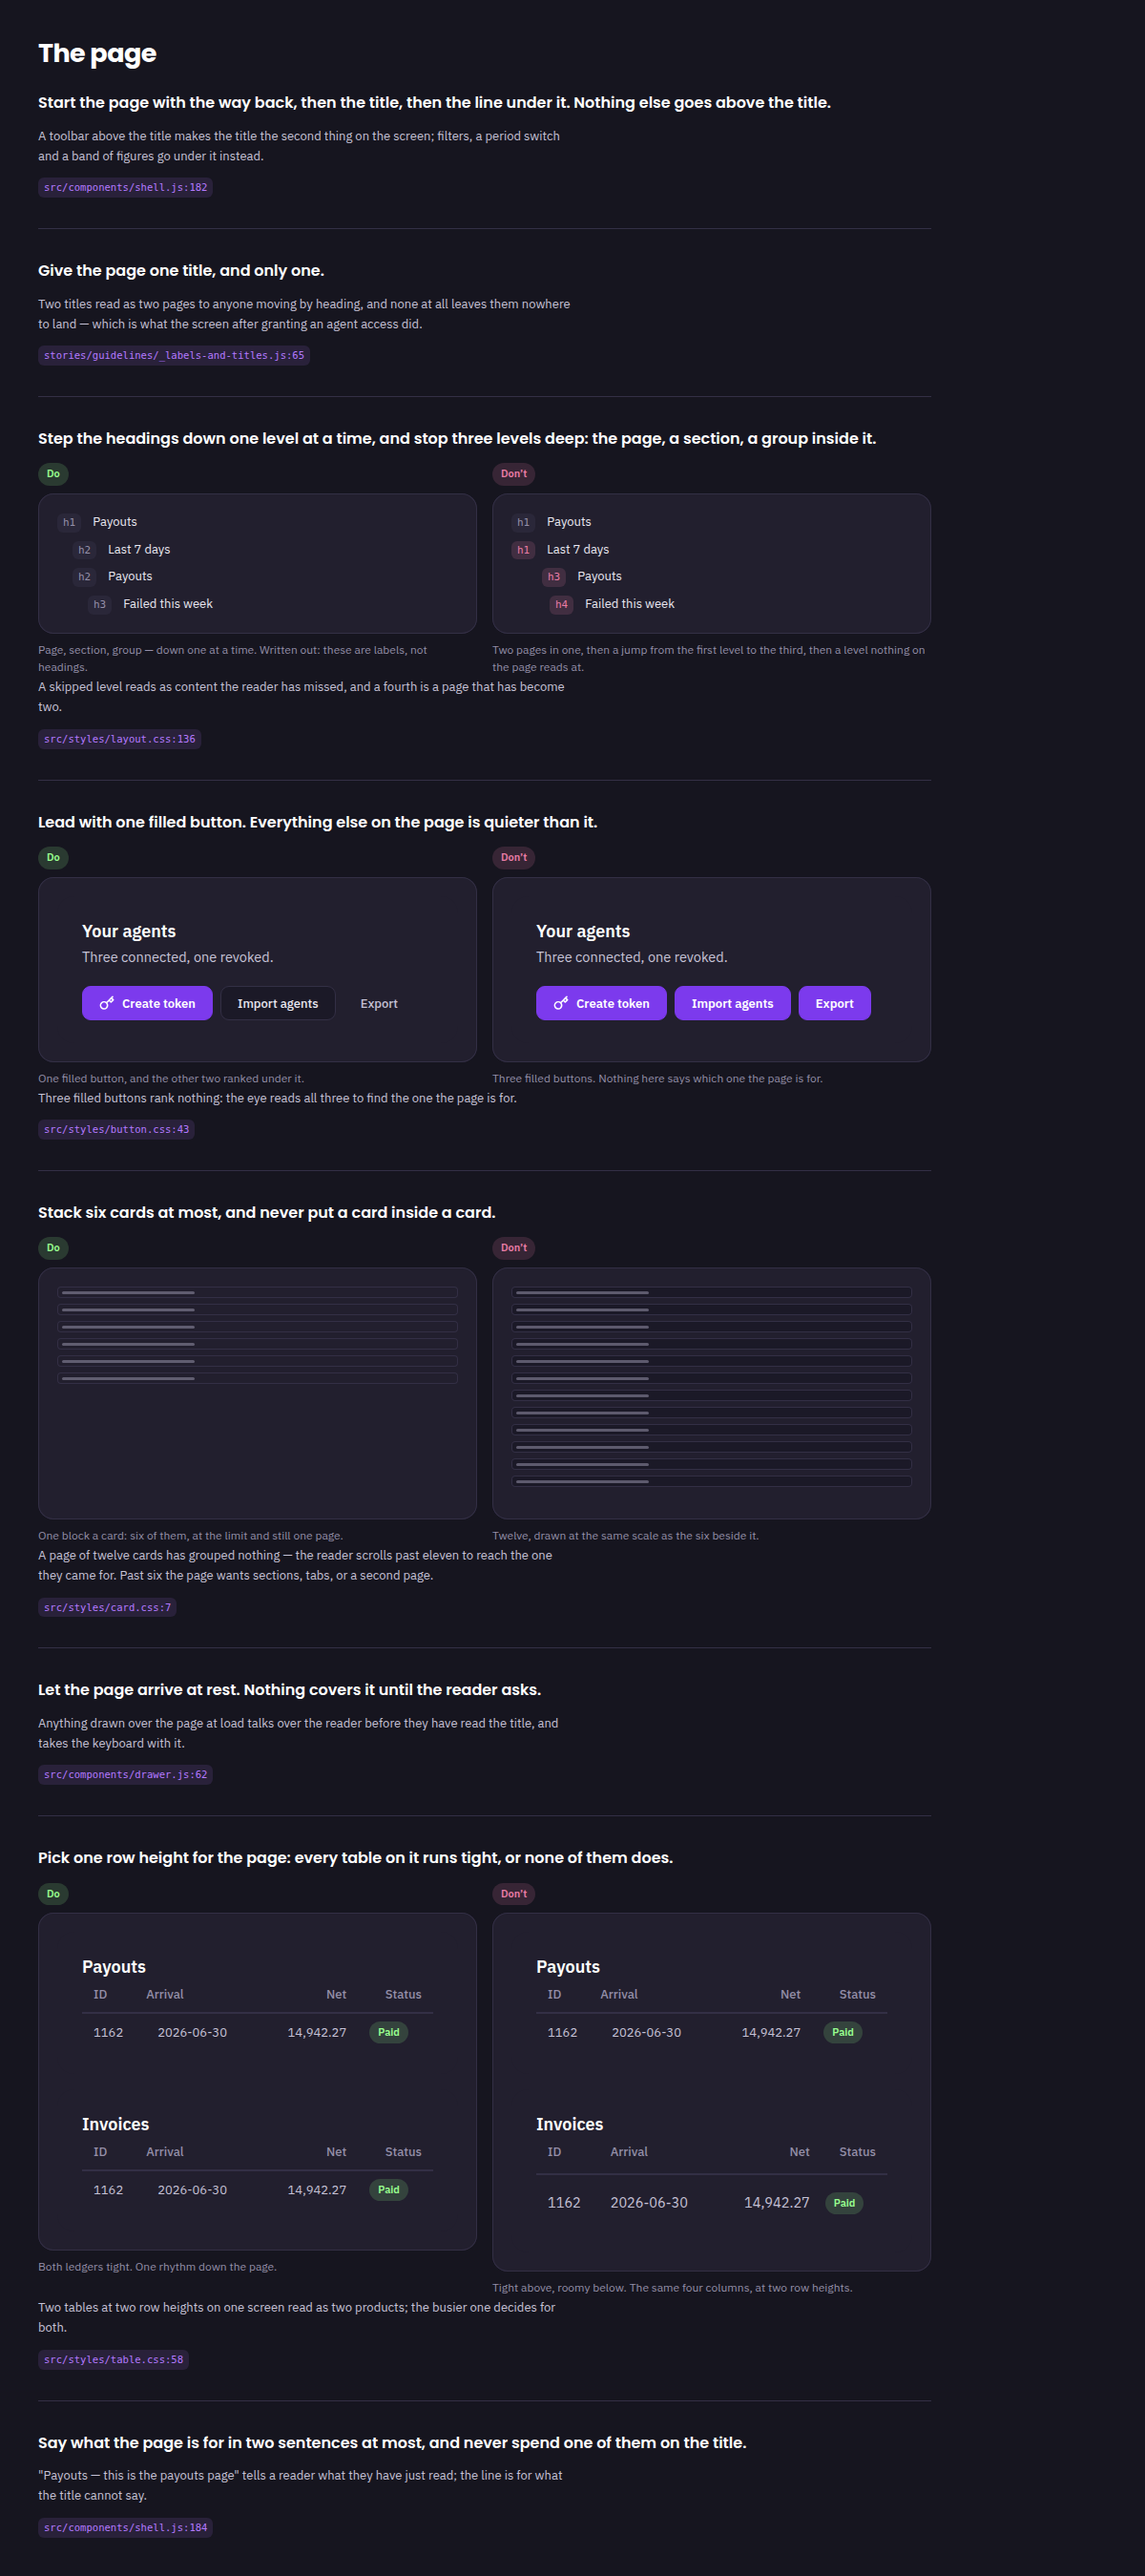
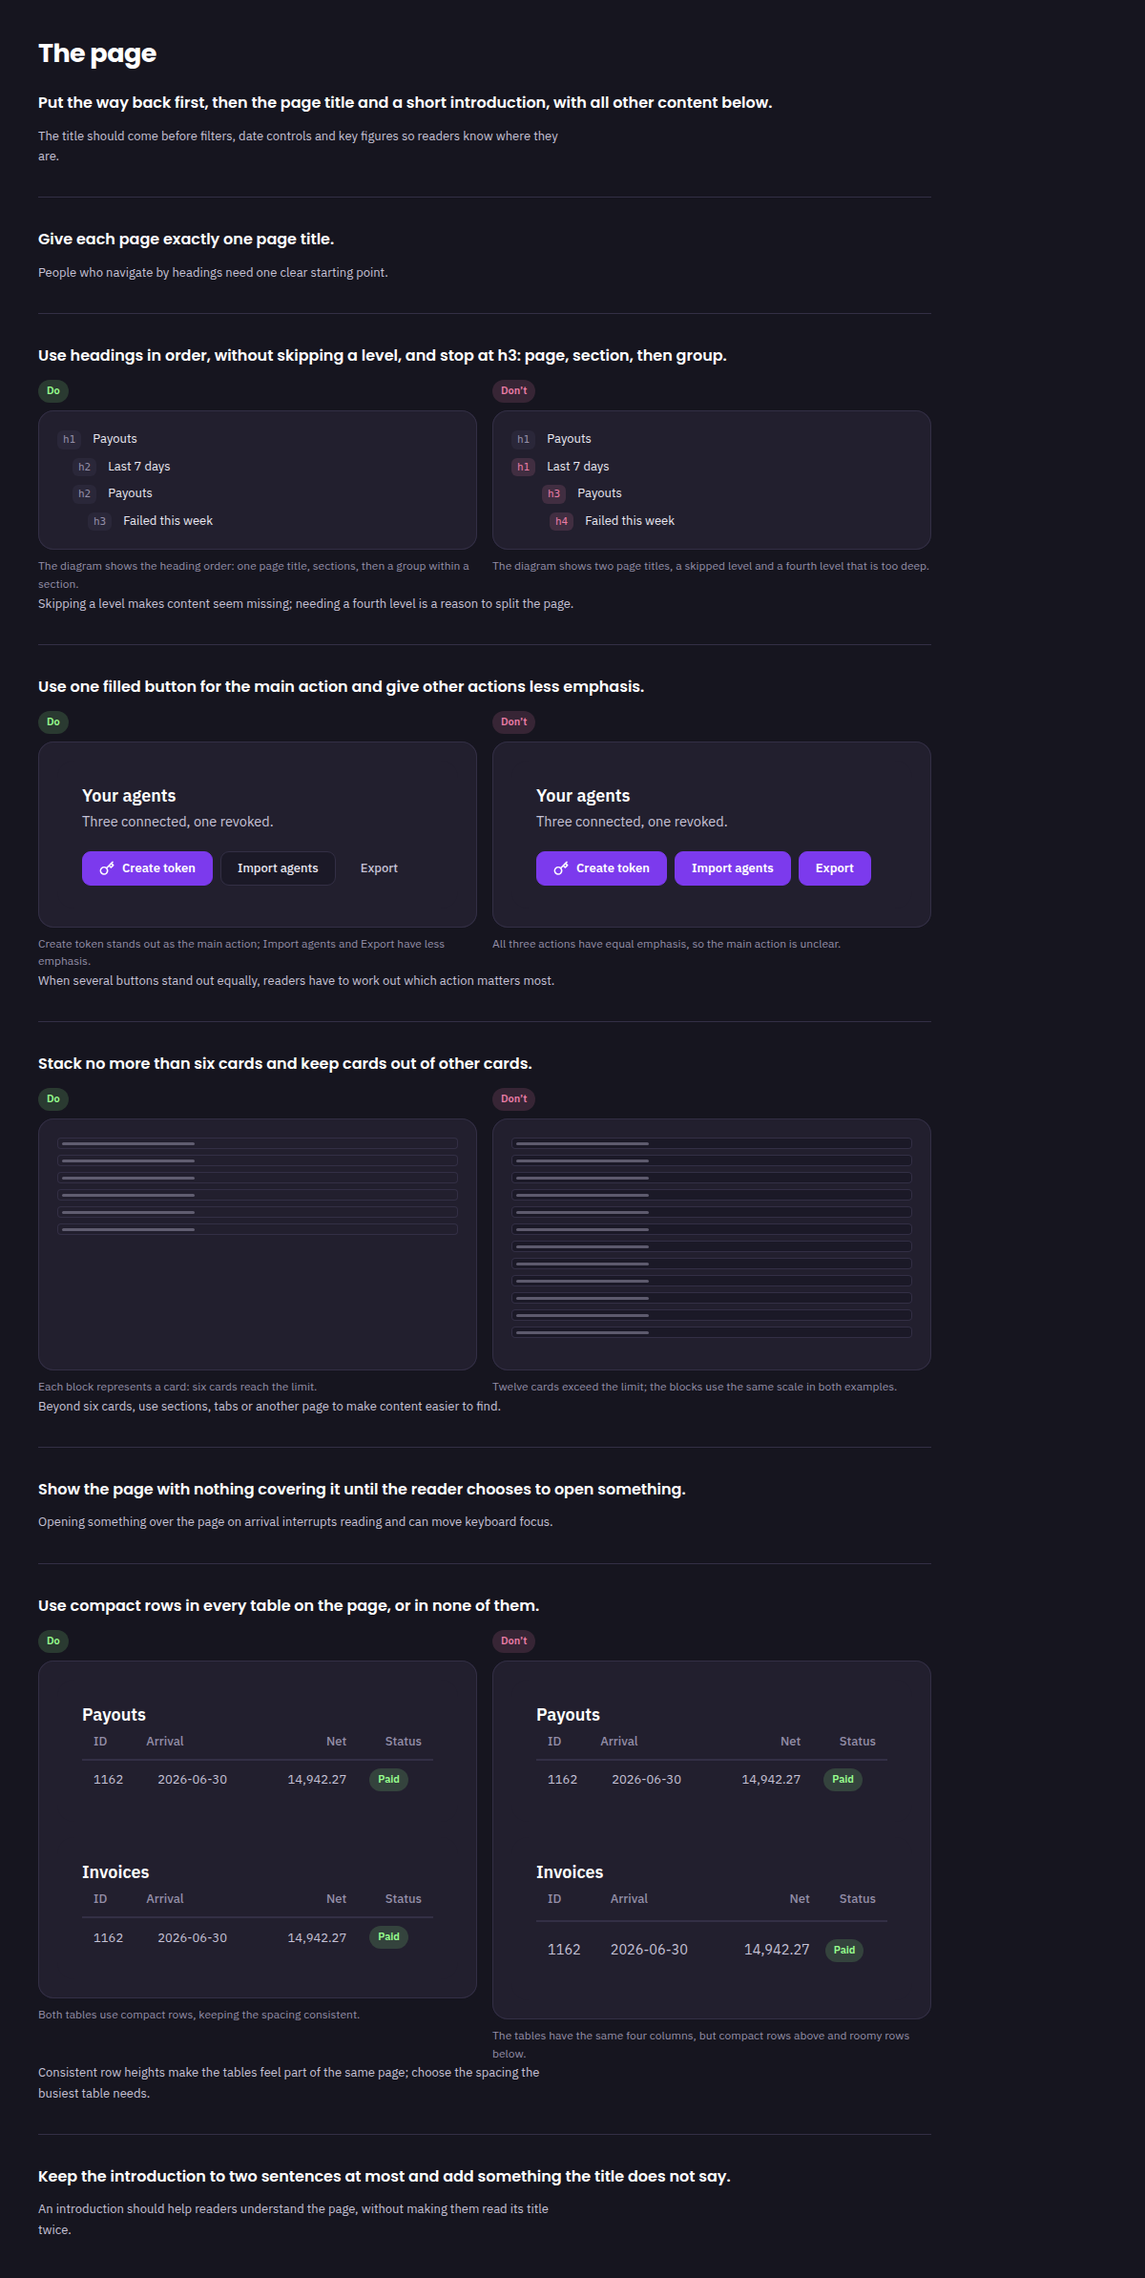
Gate the actual page render and refresh both theme screenshots

diff --git a/stories/guidelines/refs.test.js b/stories/guidelines/refs.test.js
@@ -19,6 +19,8 @@ import { fileURLToPath } from 'node:url';
 import path from 'node:path';
 import { JSDOM } from 'jsdom';
 import { guidelinePage } from './_layout.js';
+import { ThePage } from './ThePage.stories.js';
+import * as thePage from './_the-page.js';
 
 const here = path.dirname(fileURLToPath(import.meta.url));
 const root = path.resolve(here, '../..');
@@ -98,10 +100,10 @@ const unmetProblems = (page, rule) => {
 
 // The page guideline keeps its mapping in the specification. Check what a
 // reader sees as well as the data, so moving a citation into prose still fails.
-const codeFreeProblems = (mod) => {
+const codeFreeProblems = (mod, html = guidelinePage({ title: mod.TITLE, rules: mod.RULES, css: mod.SPEC_CSS })) => {
   const problems = [];
   if (mod.RULES.some((rule) => rule.kit !== undefined)) problems.push('a rule declares `kit`');
-  const doc = JSDOM.fragment(guidelinePage({ title: mod.TITLE, rules: mod.RULES, css: mod.SPEC_CSS }));
+  const doc = JSDOM.fragment(html);
   if (doc.querySelector('.gc-refs, code')) problems.push('the page renders a citation or code');
   doc.querySelectorAll('style').forEach((el) => el.remove());
   if (/(?:[\w.-]+\/)+[\w.-]+|(?<!\w)\.[A-Za-z][\w-]*|--[a-z][\w-]*/.test(doc.textContent)) {
@@ -193,12 +195,16 @@ test('only The page declares specification-only references', () => {
   assert.deepEqual(specificationOnly, ['_the-page.js']);
 });
 
+test('The page story renders no code references', () => {
+  assert.deepEqual(codeFreeProblems(thePage, ThePage.render()), []);
+});
+
 test('specification-only pages reject citations moved into visible text', () => {
   const mod = { TITLE: 'Example', RULES: [{ id: 'r', imperative: 'Keep it clear.', why: 'Help readers.' }] };
   assert.deepEqual(codeFreeProblems(mod), []);
   for (const extra of [
-    { kit: [{ ref: 'src/styles/card.css:7' }] },
-    { imperative: 'Copy src/components/shell.js:182.' },
+    { kit: [{ ref: ['fixture/card.css', 7].join(':') }] },
+    { imperative: 'Copy fixture/shell.js:182.' },
     { why: 'Use .ui-card.' },
     { why: 'Read docs/specification.md.' },
     { doHtml: () => '<div>Example</div>', dontHtml: () => '<div>Example</div>',

diff --git a/PR.md b/PR.md
@@ -17,7 +17,16 @@ The eight citation chips are removed. The page declares `REFERENCE_POLICY = 'spe
 `refs.test.js` pins that declaration and rejects citations, paths and selectors in its rendered
 text, including references moved into captions. Other guideline pages continue to cite code.
 The specification table is unchanged and remains the sole rule-to-code mapping, with both
-existing table checks in place. No tests were removed.
+existing table checks in place. No test definitions were removed; the prose-citation sweep no
+longer discovers this page now that its citations are gone, and three new checks cover the
+explicit policy, the real story render and references moved into visible text.
+
+Round-7 focused verification: 110 tests pass across `the-page.test.js`, `refs.test.js`,
+`doc-refs.test.js` and `code-refs.test.js`. The React build and Storybook build pass.
+Both refreshed screenshots show eight rules and zero code references after fonts load,
+at 1200px wide (light: 2393px high; dark: 2387px high). The specification table and all eight
+specimen render functions are unchanged. The coordinator owns independent review on the
+pushed SHA.
 
 ## Premises
 
